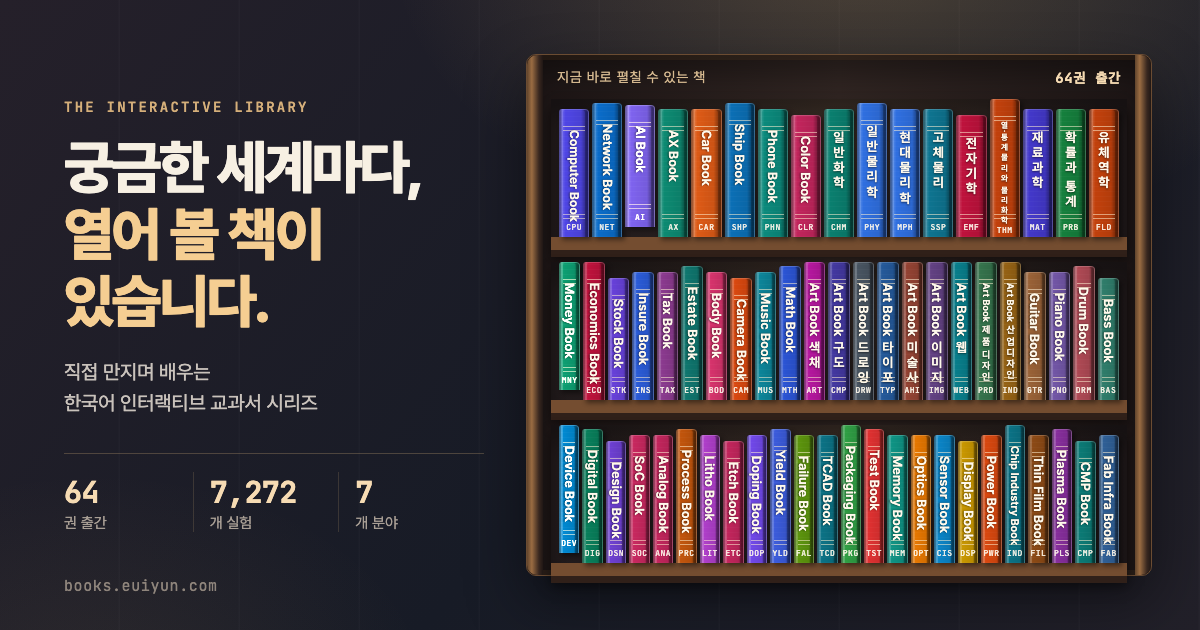
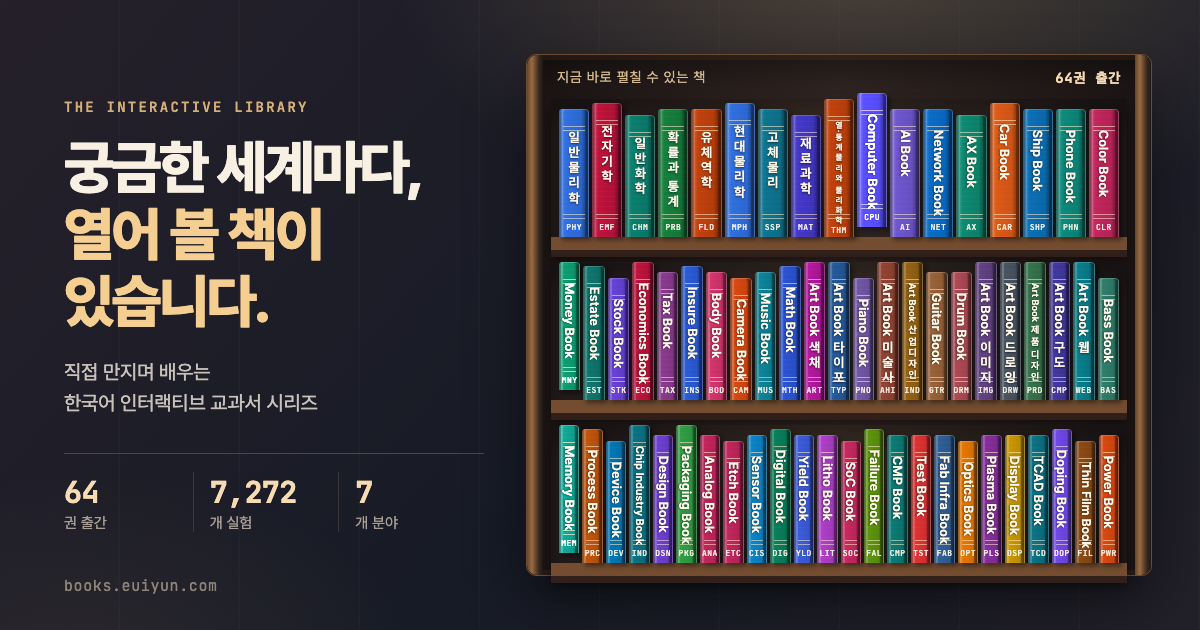
Order the og.png spines by popularity like the home shelves
Within each field, spines follow book-site page views from
data/analytics.json (ties keep books.json order), and each shelf pulls
out its most-viewed book instead of a fixed pick.

Changed region(s): [[0.4625, 0.1508, 0.9558, 0.6333], [0.4625, 0.6635, 0.9558, 0.9048]]

diff --git a/tools/og.html b/tools/og.html
@@ -100,14 +100,21 @@
   document.getElementById("s-sims").textContent = sims.toLocaleString("en-US");
   document.getElementById("s-fields").textContent = fieldsUsed.size;
   document.getElementById("s-head").textContent = `${pub.length}권 출간`;
+  // 홈 서가처럼 분야 안에서 많이 펼친 순서(data/analytics.json). 같거나 집계가 없으면 books.json 순서.
+  const ga = await fetch("../data/analytics.json").then((r) => (r.ok ? r.json() : null)).catch(() => null);
+  const opens = Object.fromEntries(((ga && ga.opens && ga.opens.books) || []).map((x) => [x.id, x.opens]));
+  const fieldOrder = Object.fromEntries(data.fields.map((f, i) => [f.id, i]));
+  const popular = (books) => books.map((b, i) => ({ b, i }))
+    .sort((x, y) => fieldOrder[x.b.field] - fieldOrder[y.b.field] || (opens[y.b.id] || 0) - (opens[x.b.id] || 0) || x.i - y.i).map((x) => x.b);
   // 첫 칸은 과학·컴퓨터·전자, 둘째 칸은 살아가는 지식, 셋째 칸은 반도체.
   const wingOf = Object.fromEntries(data.fields.map((f) => [f.id, f.wing]));
   const rows = [
     pub.filter((b) => b.field !== "semiconductor" && wingOf[b.field] === "work"),
     pub.filter((b) => wingOf[b.field] !== "work"),
     pub.filter((b) => b.field === "semiconductor"),
-  ];
-  const pulled = new Set(["aibook", "moneybook", "devicebook"]);
+  ].map(popular);
+  // 칸마다 가장 많이 펼친 책을 살짝 꺼내 둔다.
+  const pulled = new Set(rows.map((books) => [...books].sort((x, y) => (opens[y.id] || 0) - (opens[x.id] || 0))[0]?.id));
   rows.forEach((books, i) => {
     const row = document.getElementById(`row${i + 1}`);
     books.forEach((b) => {
